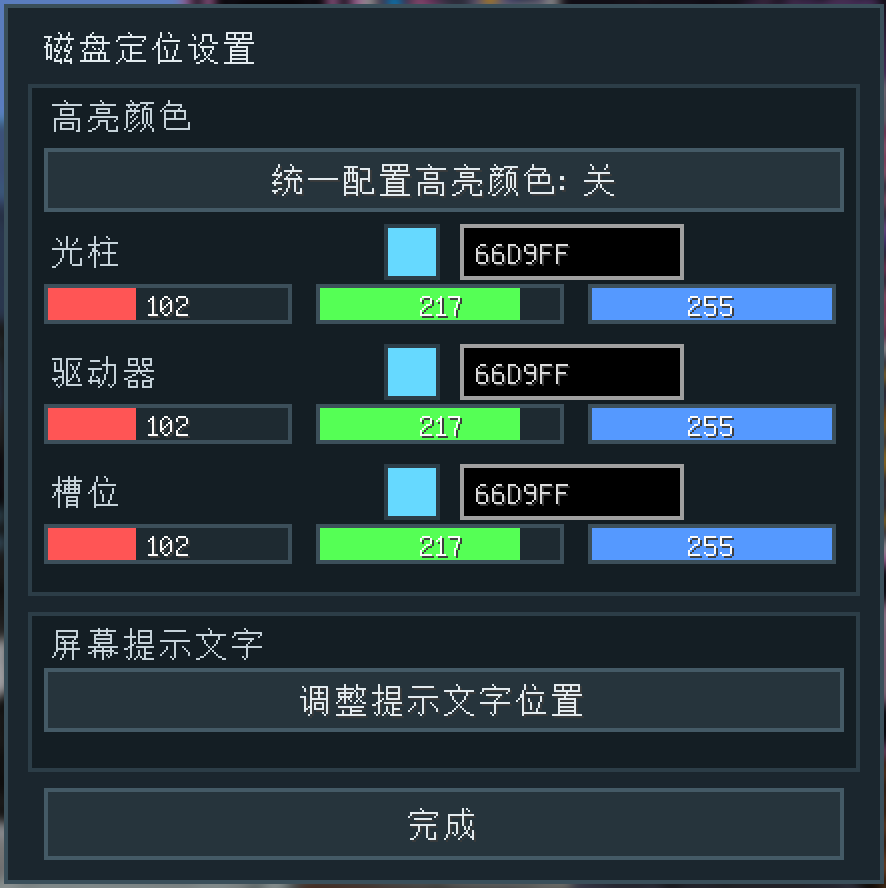
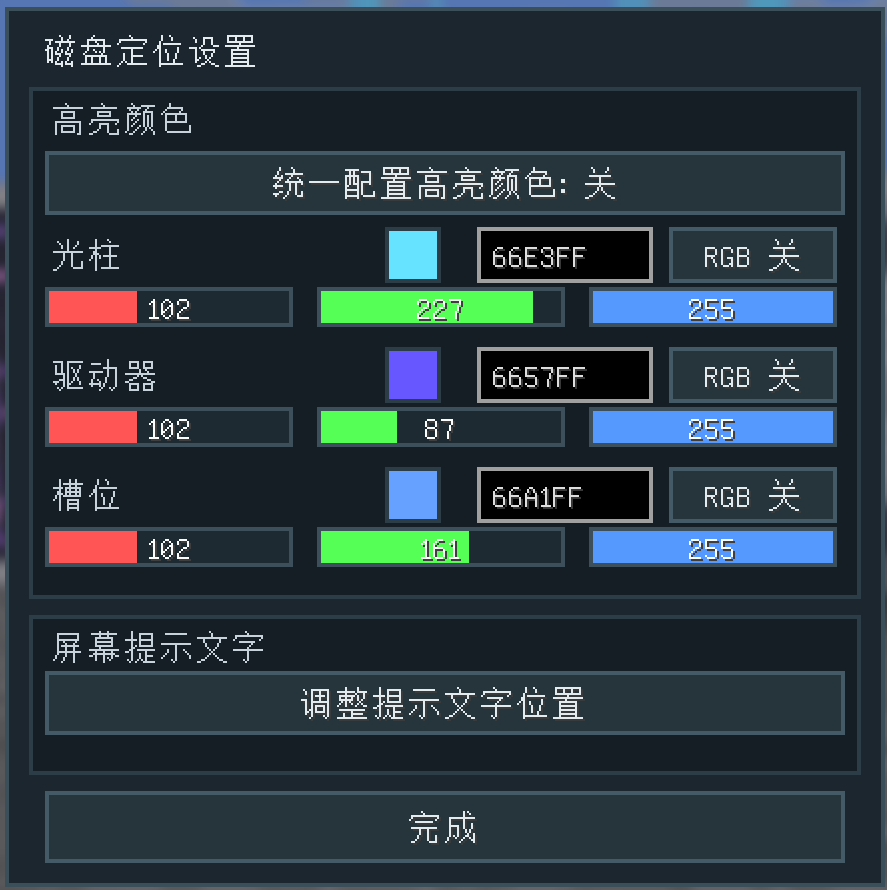
docs: refresh feature list, new rainbow GIF and config screenshots, version 1.4.1

Changed region(s): [[0.0, 0.0, 1.0, 0.6385], [0.0, 0.3953, 0.9447, 1.0], [0.64, 0.973, 1.0, 1.0]]

diff --git a/README.md b/README.md
@@ -13,6 +13,8 @@ across the base, even in another dimension.
 - Works with vanilla drives, ME chests and addon drives (ExtendedAE's 20-slot drive, etc.).
 - Follows storage-bus bridges into subnetworks, so items that reach your main network from a
   subnet are traced to the subnet's disk.
+- Understands multiblocks: a drive inside Neo ECO AE's storage subsystem host gets a link line to
+  that host, and its cell is framed inside the host's own GUI.
 - Updates live: pull a disk out and the highlight disappears; plug it into another drive and the
   highlight follows within a fraction of a second.
 
@@ -21,12 +23,12 @@ across the base, even in another dimension.
 | | |
 |---|---|
 | **Drive + slot in the tooltip** | Every network item gains a small section: drive coordinates, slot number and the cell type. |
-| **In-world highlight** | A translucent shell, a wireframe and an optional beacon beam mark the drive. Survives closing the terminal. |
+| **In-world highlight** | A translucent shell, an edge outline and an optional beacon beam mark the drive. Survives closing the terminal. |
 | **Slot outline** | Open the drive and the exact slot that holds the disk is outlined, so you know which disk to pull. |
 | **Subnetwork aware** | Storage-bus bridges are followed; results coming from a subnet are labelled as such. |
 | **Drive-agnostic** | Anything implementing AE2's `IChestOrDrive` works, including addon drives with custom slot layouts — plus single-cell storage blocks such as Neo ECO AE's storage matrix drives. |
-| **Colours & HUD position** | Fully configurable in an in-game screen; the status text can be dragged anywhere. |
-| **Multiblock aware** | Drives that belong to a controller (Neo ECO AE's storage subsystem host) get a link line to that controller, and their cell is outlined inside the controller's own GUI. |
+| **Multiblock aware** | Drives belonging to a controller get a link line to it, the controller block is highlighted too, and the matching cell is framed inside the controller's GUI — on the right page, or with a note of which page it is on. |
+| **Colours, rainbow and HUD position** | One colour for everything or per-part colours (beam / drive / slot), each with an optional rainbow cycle, plus a draggable position for the status text. |
 
 ## Screenshots
 
@@ -47,8 +49,17 @@ language selected.
 </p>
 
 <p align="center">
-  <em>Press <code>H</code> to lock the highlight: a translucent shell, a wireframe and a beacon beam
-  that survives closing the terminal.</em>
+  <em>Press <code>H</code> to lock the highlight: a translucent shell, an edge outline and a beacon
+  beam that survives closing the terminal.</em>
+</p>
+
+<p align="center">
+  <img src="docs/screenshots/rainbow.gif" width="78%" alt="Rainbow colour cycle across beam, blocks and link lines">
+</p>
+
+<p align="center">
+  <em>With the rainbow cycle enabled, the beam, the highlighted blocks, the link lines and the slot
+  outline all share one colour and travel the hue wheel together — six seconds per revolution.</em>
 </p>
 
 <p align="center">
@@ -58,7 +69,7 @@ language selected.
 
 <p align="center">
   <em>Left: the matching slot is outlined in the drive GUI. Right: one colour for beam, drive and
-  slot.</em>
+  slot, with its own <code>RGB</code> toggle.</em>
 </p>
 
 <p align="center">
@@ -66,8 +77,9 @@ language selected.
 </p>
 
 <p align="center">
-  <em>Uncheck "one colour" to set the beam, the drive highlight and the slot outline independently
-  — RGB sliders plus hex input, updated live.</em>
+  <em>Uncheck "one colour" to set the beam, the drive highlight and the slot outline independently —
+  RGB sliders plus hex input, and an <code>RGB</code> toggle per row to cycle that colour through the
+  rainbow. Everything updates live.</em>
 </p>
 
 ## Compatibility
@@ -77,7 +89,8 @@ language selected.
 | 1.21.1 | NeoForge | 21.1.169+ | 19.2.18 – 19.x | Supported |
 
 Optional integration: **Neo ECO AE Extension** 21.2.x — its storage matrix drives (`eco_drive`) are
-located even though they do not implement `IChestOrDrive`.
+located even though they do not implement `IChestOrDrive`, and its storage subsystem host GUI gets
+the slot outline.
 
 Requires **Applied Energistics 2** and its dependency **GuideME**. The mod must be installed on
 **both** the client and the server (in singleplayer that is automatic). With only one side
@@ -87,7 +100,7 @@ installed it stays silent instead of erroring.
 
 1. Install NeoForge 21.1.169 or newer for Minecraft 1.21.1.
 2. Drop [Applied Energistics 2](https://modrinth.com/mod/ae2) and GuideME into `mods/`.
-3. Drop `ae2itemlocator-1.0.0.jar` into `mods/`.
+3. Drop `ae2itemlocator-1.4.1.jar` into `mods/`.
 
 ## Usage
 
@@ -103,9 +116,10 @@ installed it stays silent instead of erroring.
    - Pull the disk out → the highlight disappears.
    - Put it into another drive → the highlight follows.
    - Press **H** again to clear.
-3. Open the drive's GUI and the matching slot is outlined.
-4. Press **K** (rebindable) for settings: colours (one for everything, or separate colours for the
-   beam / drive / slot) and the position of the on-screen status text.
+3. Open the drive's GUI and the matching slot is outlined. Drives that live inside a multiblock
+   controller are framed in the controller's GUI instead, on whatever page the cell sits.
+4. Press **K** (rebindable) for settings: one colour or per-part colours, an `RGB` toggle per colour
+   to cycle it through the rainbow, and the position of the on-screen status text.
 
 ## Configuration
 
@@ -127,6 +141,8 @@ installed it stays silent instead of erroring.
 | `colors.unified` | `true` | Use a single colour for everything. |
 | `colors.unifiedValue` | `#66D9FF` | Colour used while unified. |
 | `colors.beam` / `drive` / `slot` | `#66D9FF` | Per-part colours when not unified. |
+| `colors.rainbowUnified` | `false` | Cycle the unified colour through the rainbow. |
+| `colors.rainbowBeam` / `rainbowDrive` / `rainbowSlot` | `false` | Cycle each part's colour when not unified. |
 | `hud.x` / `hud.y` | `8` / `8` | Status text position, in permille of the screen size. |
 
 ## How it works
@@ -139,6 +155,10 @@ the mod rebuilds a "key → (drive, slot)" catalogue on the server:
 terminal menu -> grid -> IChestOrDrive hosts -> per-slot MEStorage -> getAvailableStacks()
 ```
 
+Addon drives that keep their storage in a cell item without implementing `IChestOrDrive` (Neo ECO
+AE's storage matrix drives) are probed through the `getCellStack()` / `getCellInventory()` contract
+they share, so they are reported the same way.
+
 Because building that catalogue is not free, it is
 
 - sliced across server ticks (a few cells per tick) and cached per network,
@@ -150,18 +170,27 @@ Because building that catalogue is not free, it is
 
 The client only ever receives "which drives hold *this* key", never the whole index.
 
+The controller GUI is an LDLib2 `ModularUI`, not a vanilla container menu, so its slot outline is
+drawn by a dedicated overlay: the panel's cell grid maps each `CellSlot` index to a `CellEntry`,
+and the entry's position is compared with the answer set. `getPositionX/Y` from LDLib2 already
+carries the absolute GUI coordinate, which is all the overlay needs.
+
 ## Known limitations
 
 - **Storage buses onto non-AE inventories** (drawers, barrels, chests) are not drives, so they are
   not reported. The item is still visible in the terminal, it just has no drive location.
 - **Unloaded chunks** are not indexed; a drive in a chunk nobody has loaded cannot be found.
 - The highlight uses normal depth testing, so the box is hidden behind walls — the beacon beam above
-  the terrain is what you navigate by. Cross-dimension results are shown as text only.
+  the terrain is what you navigate by. Cross-dimension results are shown as text only. The
+  controller's own highlight is the exception: it is drawn through walls so it stays visible inside
+  the multiblock.
 - The positional fallback may list a drive from a *different* network that happens to be built right
   next to yours and happens to contain the same item. It is labelled as a subnet result.
 - **Single-cell storage blocks** (Neo ECO AE storage matrix drives) have no slot, so the tooltip
   shows the block coordinates and the cell's name instead of a slot number, and the drive-GUI slot
   outline does not apply to them — the outline appears in the controller's GUI instead.
+- The controller GUI overlay reads the addon's panel classes reflectively; a large restructuring of
+  that UI could make the outline fall back to doing nothing rather than erroring.
 
 ## Building from source
 

diff --git a/docs/screenshots/README.md b/docs/screenshots/README.md
@@ -5,10 +5,16 @@ These are the images used by the README. Keep the file names; both READMEs refer
 | File | Shown in |
 |---|---|
 | `tooltip.png` | Item tooltip listing every drive holding the item (one entry marked `(subnet)`) |
-| `world-highlight.jpg` | Locked drive with shell, wireframe and beacon beam |
+| `world-highlight.jpg` | Locked drive with shell, edge outline and beacon beam |
+| `rainbow.gif` | Animated rainbow cycle: beam, highlighted blocks, link lines and slot outline sharing one colour |
 | `drive-slots.png` | Drive GUI with the matching slot outlined |
-| `config-unified.png` | Settings screen, single colour for everything |
-| `config-separate.png` | Settings screen, separate colours for beam / drive / slot |
+| `config-unified.png` | Settings screen, one colour for everything, with its `RGB` toggle |
+| `config-separate.png` | Settings screen, separate colours for beam / drive / slot, each with its own `RGB` toggle |
 
-To regenerate: capture at 1920x1080 or larger with the same GUI scale, then compress
-(`world-highlight` is a JPEG because the full-size PNG was over 1 MB).
+## Notes
+
+- `rainbow.gif` is a downscaled re-encode of the original 15 MB screen recording (1130x960, 272
+  frames): 560 px wide, every fifth frame, 48-colour palette, ~2.1 MB. Re-encode the same way if it
+  is ever replaced.
+- `world-highlight.jpg` is a JPEG because the full-size PNG was over 1 MB.
+- To regenerate: capture at 1920x1080 or larger with the same GUI scale, then compress.
